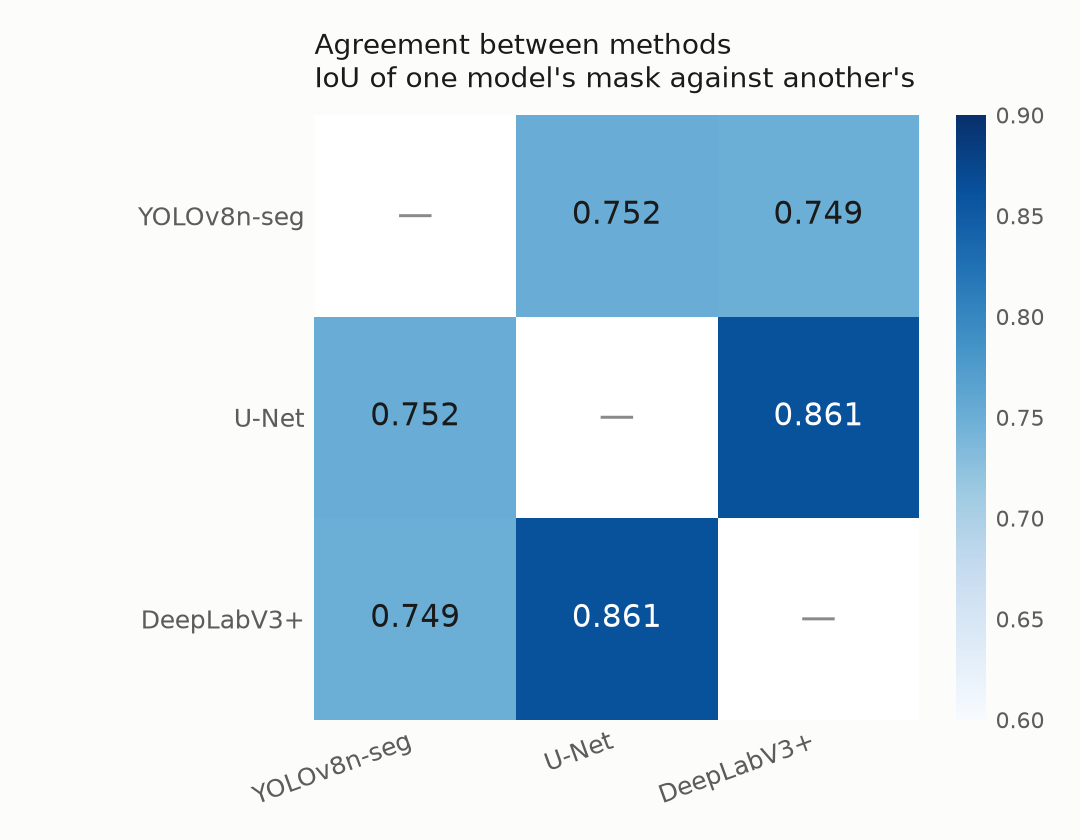
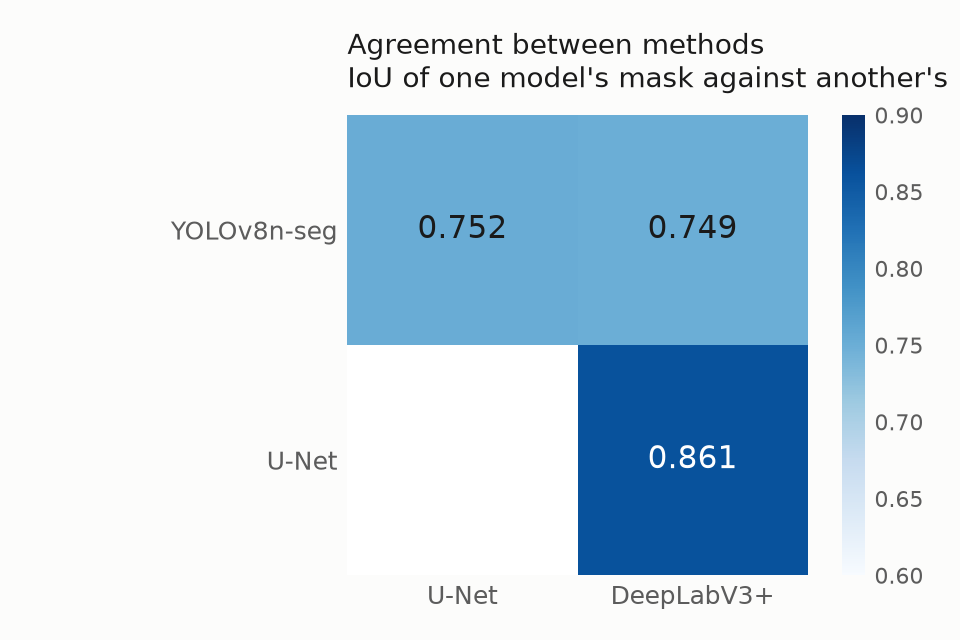
Agreement plot: upper triangle only, smaller in README

diff --git a/code/agreement.py b/code/agreement.py
@@ -30,21 +30,23 @@ def plot(iou, names, out=None):
 
     out = out or f"{isod.ROOT}/figures/agreement.png"
     n = len(names)
-    shown = np.array([[np.nan if a == b else iou[a, b] for b in range(n)] for a in range(n)])
-    fig, ax = plt.subplots(figsize=(5.4, 4.2), dpi=200)
+    # upper triangle only (the matrix is symmetric): rows drop the last name,
+    # columns drop the first, so no empty row or column is drawn
+    rows, cols = names[:-1], names[1:]
+    shown = np.array([[iou[a, b + 1] if b + 1 > a else np.nan for b in range(n - 1)]
+                      for a in range(n - 1)])
+    fig, ax = plt.subplots(figsize=(4.8, 3.2), dpi=200)
     fig.patch.set_facecolor("#fcfcfb")
-    # sequential: one hue, light -> dark; range chosen around the observed values
-    im = ax.imshow(shown, cmap="Blues", vmin=0.6, vmax=0.9)
-    for a in range(n):
-        for b in range(n):
-            if a == b:
-                ax.text(b, a, "—", ha="center", va="center", color="#8a8a8a", fontsize=13)
-            else:
-                v = iou[a, b]
-                ax.text(b, a, f"{v:.3f}", ha="center", va="center", fontsize=11,
-                        color="#ffffff" if v > 0.8 else "#1a1a1a")
-    ax.set_xticks(range(n), names, fontsize=9, color="#5c5c5c", rotation=20, ha="right")
-    ax.set_yticks(range(n), names, fontsize=9, color="#5c5c5c")
+    im = ax.imshow(shown, cmap="Blues", vmin=0.6, vmax=0.9)  # sequential: one hue
+    for a in range(n - 1):
+        for b in range(n - 1):
+            if np.isnan(shown[a, b]):
+                continue
+            v = shown[a, b]
+            ax.text(b, a, f"{v:.3f}", ha="center", va="center", fontsize=11,
+                    color="#ffffff" if v > 0.8 else "#1a1a1a")
+    ax.set_xticks(range(n - 1), cols, fontsize=9, color="#5c5c5c")
+    ax.set_yticks(range(n - 1), rows, fontsize=9, color="#5c5c5c")
     ax.set_title("Agreement between methods\nIoU of one model's mask against another's",
                  fontsize=10, color="#1a1a1a", pad=10, loc="left")
     for s_ in ax.spines.values():
@@ -87,7 +89,7 @@ def main(n=100):
         for b in range(len(names)):
             x, y = min(a, b), max(a, b)
             v = iou[x, y]
-            cells.append("—" if a == b else f"{v:.3f}")
+            cells.append("" if b <= a else f"{v:.3f}")
         print(f"| **{na}** | " + " | ".join(cells) + " |")
 
 

diff --git a/README.md b/README.md
@@ -120,7 +120,7 @@ models 15 epochs in about 5 minutes each.
 
 ### Agreement between methods
 
-![Agreement between methods](figures/agreement.png)
+<img src="figures/agreement.png" width="420" alt="Agreement between methods">
 
 Pairwise IoU of the predicted masks — how much two models agree with each other, ignoring
 the ground truth (`agreement.py`; the depth baseline agrees with nothing and is left out).
